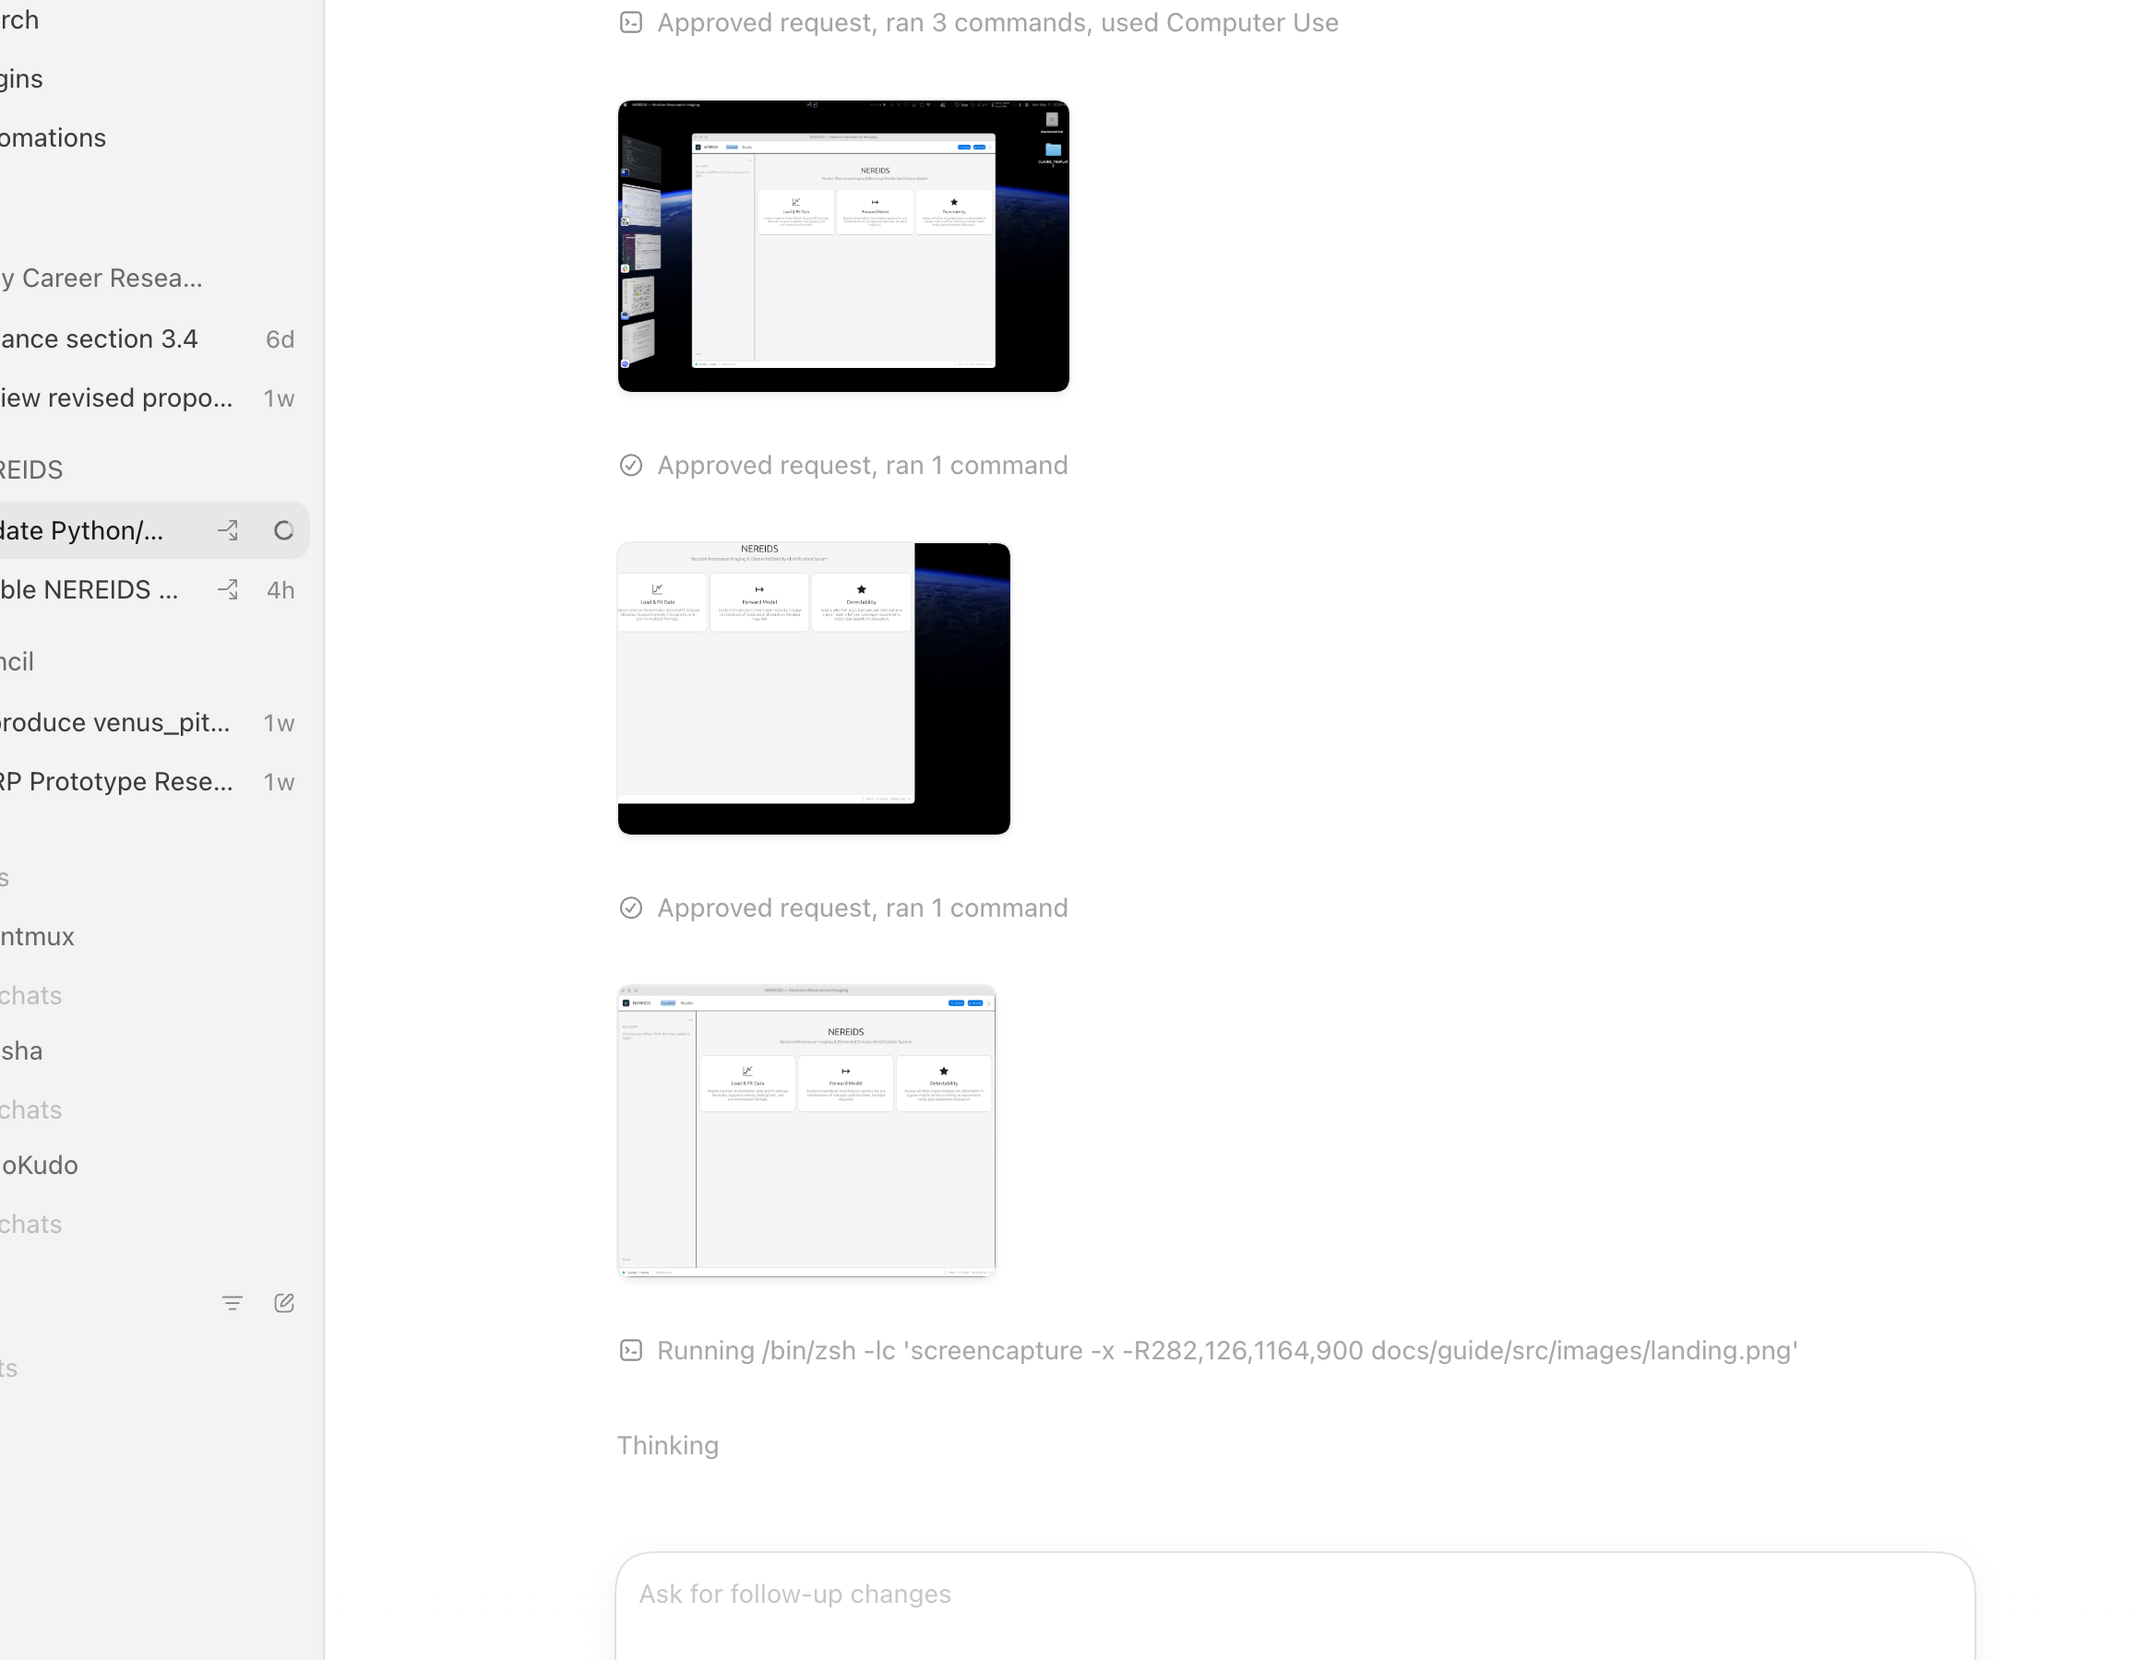
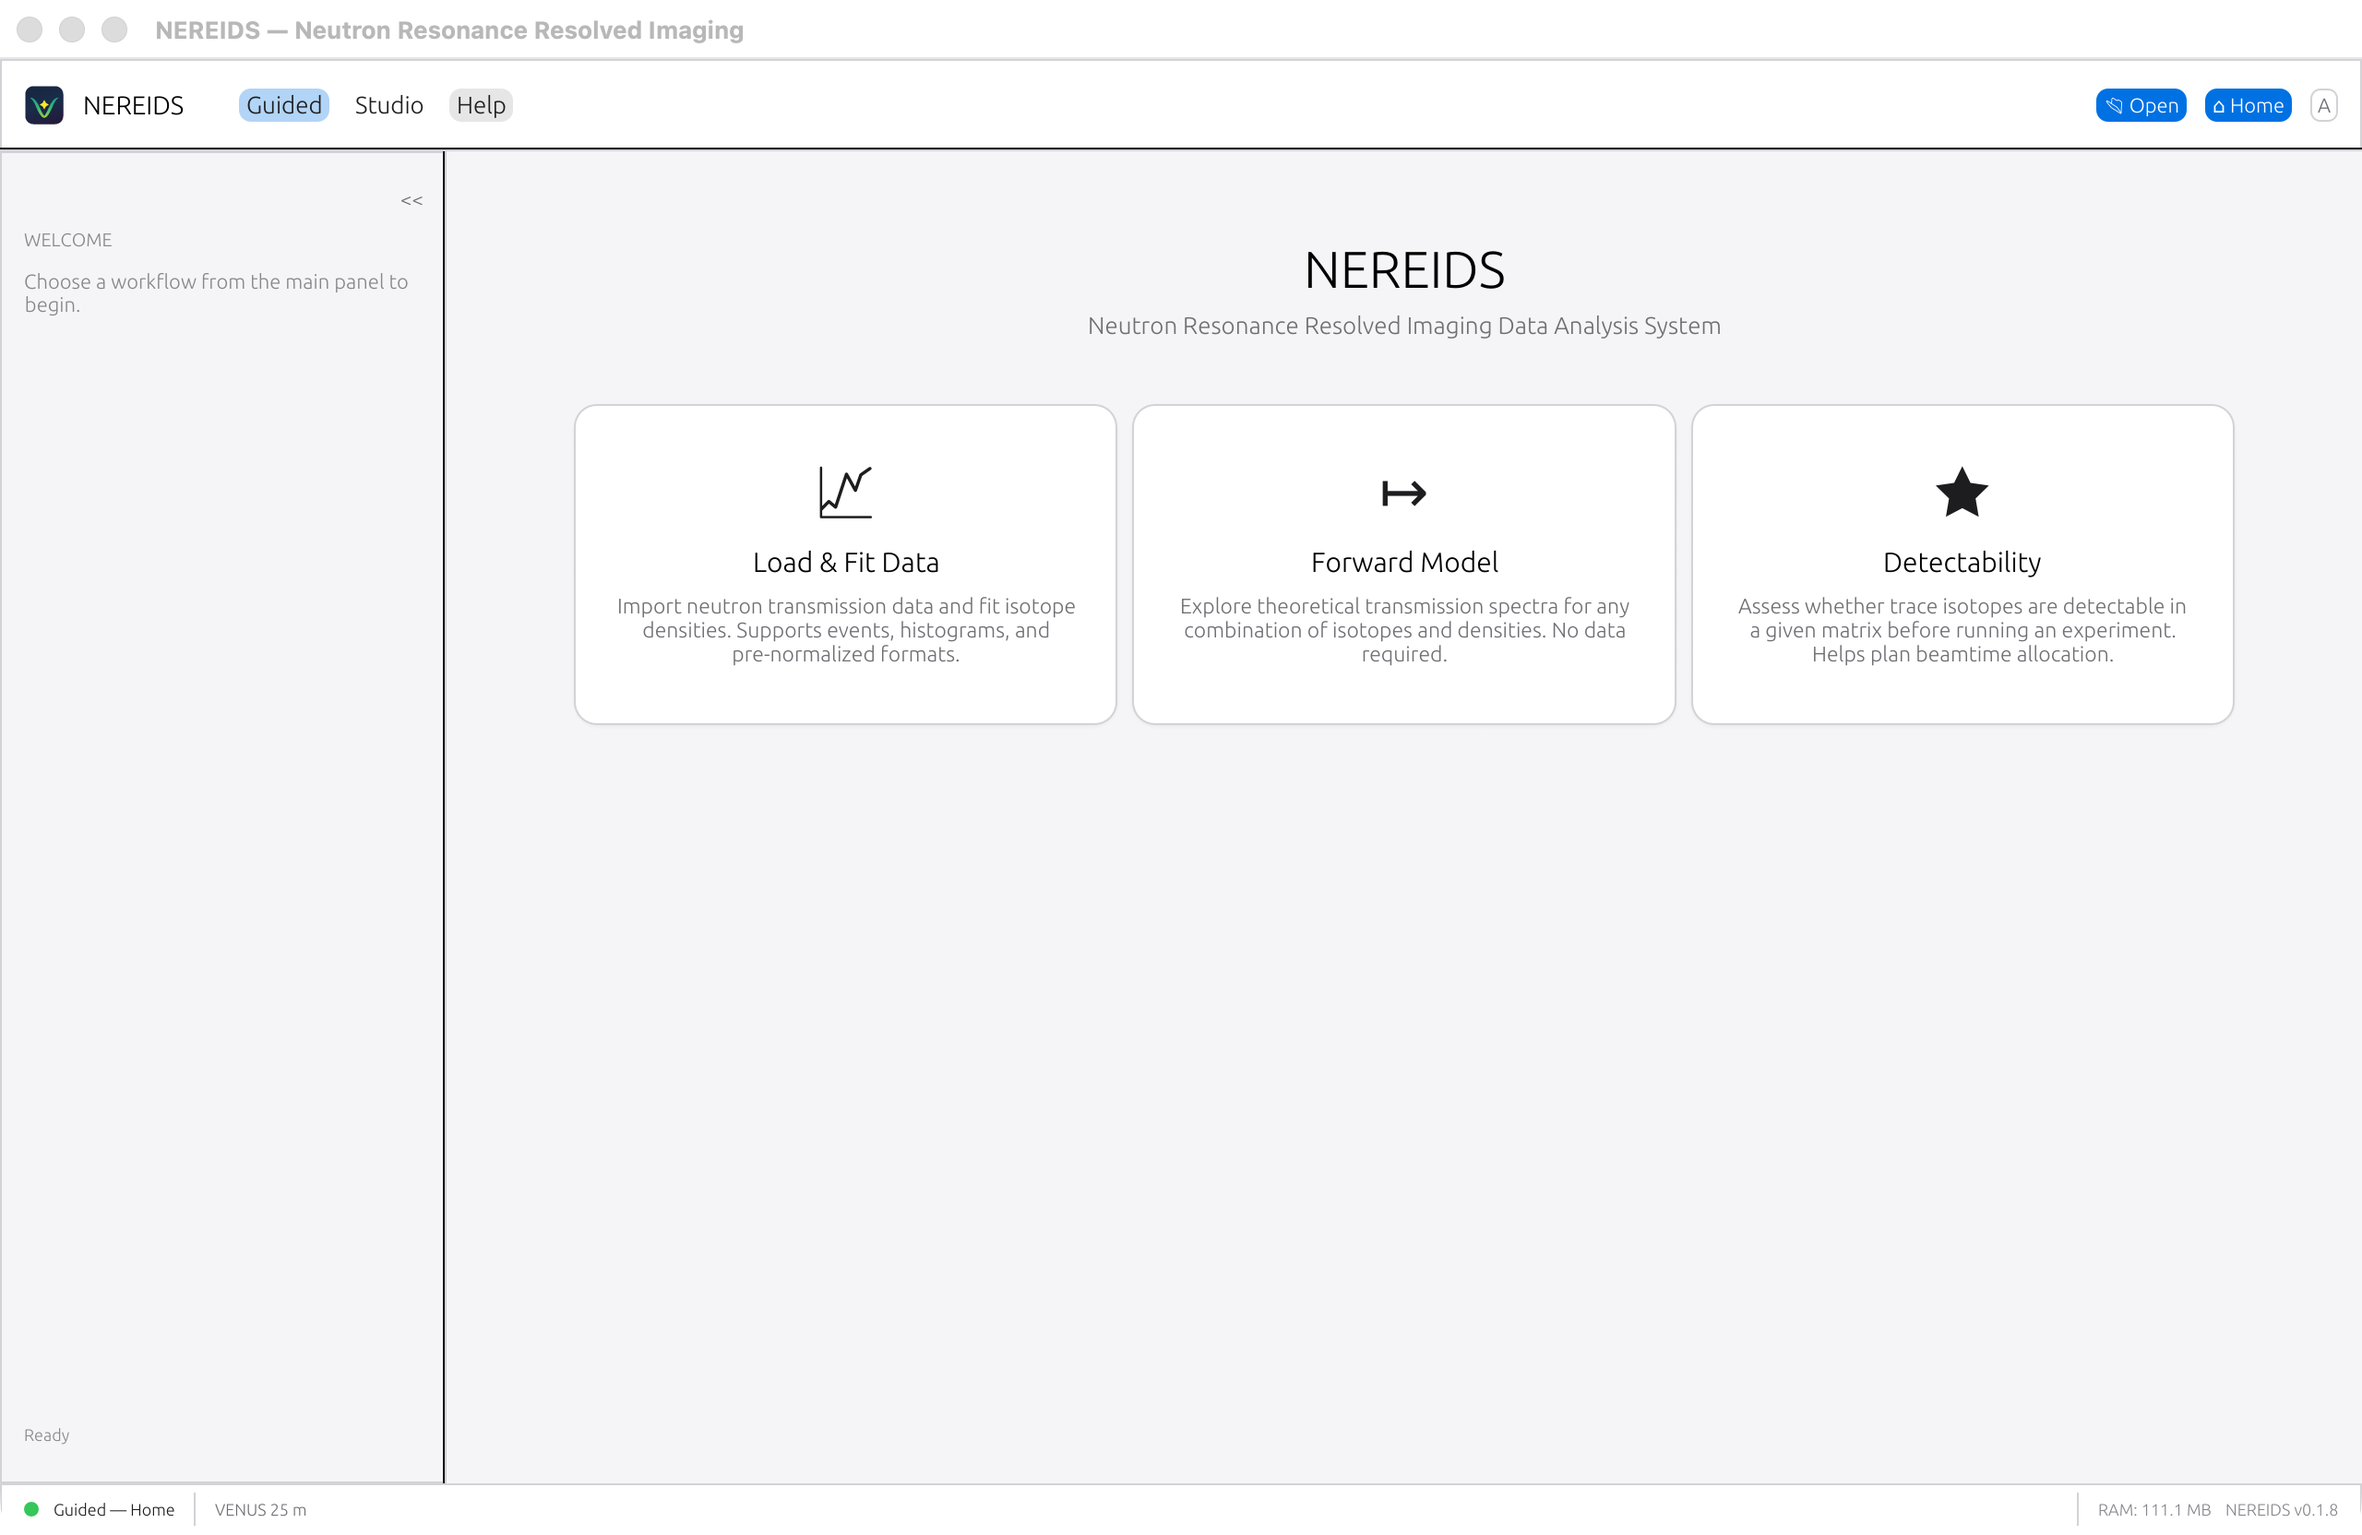
chore(license): MIT-only switch + citation/naming/metadata consistency (perfectionist pass PR-2) (#612)
* chore(license): switch the workspace from BSD-3-Clause to MIT

User decision for the pre-paper consolidation: one permissive license
everywhere. The root LICENSE becomes the standard MIT text (copyright
2025-2026, UT-Battelle, LLC / Oak Ridge National Laboratory — same
holder as before, year range extended). The workspace Cargo.toml
license field flips to MIT and endf-mat's MIT-OR-Apache-2.0 dual
license now inherits it instead, so every crate resolves to MIT
(verified via cargo metadata). Python wheel metadata (license +
classifier in both pyprojects), CITATION.cff, the README badge and
License section, and CONTRIBUTING's contributor-license statement all
follow. The GUI bundle copyright string gains the UT-Battelle, LLC
holder to match LICENSE.

Artifacts already published as 0.1.8 keep their BSD-3-Clause metadata;
MIT applies from the next published version (CHANGELOG notes this).

Assisted-With: Claude Fable 5 (1M context) <noreply@anthropic.com>

* docs(metadata): citation block, acronym casing, optimizer label, structure trees

- README BibTeX: key nereids2025 -> nereids2026, year 2026, and the four
  named CITATION.cff authors replace the team alias, so the README block
  and CITATION.cff agree.
- Acronym expansion harmonized to 'Neutron Resonance Resolved Imaging
  Data Analysis System' wherever a string purports to expand NEREIDS:
  README headline capitalizes Analysis, the nereids wheel description
[…]

diff --git a/apps/gui/src/main.rs b/apps/gui/src/main.rs
@@ -1,4 +1,4 @@
-//! NEREIDS — Neutron Resonance Imaging Data Analysis
+//! NEREIDS — Neutron Resonance Resolved Imaging Data Analysis
 //!
 //! Desktop GUI application for interactive neutron transmission analysis,
 //! isotope identification, and spatial composition mapping.
@@ -25,7 +25,7 @@ fn main() -> eframe::Result {
     let options = eframe::NativeOptions {
         viewport: egui::ViewportBuilder::default()
             .with_inner_size([1280.0, 800.0])
-            .with_title("NEREIDS — Neutron Resonance Imaging"),
+            .with_title("NEREIDS — Neutron Resonance Resolved Imaging"),
         ..Default::default()
     };
 

diff --git a/apps/gui/src/guided/landing.rs b/apps/gui/src/guided/landing.rs
@@ -17,7 +17,7 @@ pub fn landing_step(ui: &mut egui::Ui, state: &mut AppState) {
         ui.label(RichText::new("NEREIDS").size(28.0).strong());
         ui.add_space(4.0);
         ui.label(
-            RichText::new("Neutron Resonance Imaging & Elemental Density Identification System")
+            RichText::new("Neutron Resonance Resolved Imaging Data Analysis System")
                 .size(13.0)
                 .color(tc.fg2),
         );

diff --git a/README.md b/README.md
@@ -1,12 +1,12 @@
 # NEREIDS
 
-**N**eutron r**E**sonance **RE**solved **I**maging **D**ata analysis **S**ystem
+**N**eutron r**E**sonance **RE**solved **I**maging **D**ata Analysis **S**ystem
 
 [![DOI](https://zenodo.org/badge/DOI/10.5281/zenodo.18973054.svg)](https://doi.org/10.5281/zenodo.18973054)
 [![CI](https://github.com/ornlneutronimaging/NEREIDS/actions/workflows/ci.yml/badge.svg)](https://github.com/ornlneutronimaging/NEREIDS/actions/workflows/ci.yml)
 [![PyPI](https://img.shields.io/pypi/v/nereids)](https://pypi.org/project/nereids/)
 [![crates.io](https://img.shields.io/crates/v/nereids-core)](https://crates.io/crates/nereids-core)
-[![License](https://img.shields.io/badge/license-BSD--3--Clause-blue)](LICENSE)
+[![License](https://img.shields.io/badge/license-MIT-blue)](LICENSE)
 [![Docs](https://img.shields.io/badge/docs-guide-blue)](https://ornlneutronimaging.github.io/NEREIDS/)
 [![API](https://img.shields.io/badge/docs-rustdoc-orange)](https://ornlneutronimaging.github.io/NEREIDS/api/nereids_pipeline/)
 
@@ -200,6 +200,8 @@ notebooks covering foundations, building blocks, workflows, and applications.
 NEREIDS is organized as a Rust workspace with layered crates:
 
 ```
+endf-mat              ENDF MAT lookup tables (no deps of its own; used by core + endf)
+
 nereids-core          Shared types, physical constants, isotope registry
     |
 nereids-endf          ENDF file retrieval, parsing, resonance data
@@ -212,12 +214,13 @@ nereids-io            TIFF/NeXus I/O, TOF normalization, rebinning
     |
 nereids-pipeline      End-to-end orchestration, spatial mapping (rayon)
     |
-    +-- nereids-python    PyO3 Python bindings
-    +-- nereids-gui       egui desktop application
+    +-- nereids-python    PyO3 Python bindings (bindings/python)
+    +-- nereids-gui       egui desktop application (apps/gui)
 ```
 
 | Crate | Description |
 |-------|-------------|
+| `endf-mat` | ENDF MAT number lookup, element symbols, natural isotopic abundances |
 | `nereids-core` | Core types, physical constants, traits |
 | `nereids-endf` | ENDF file retrieval, caching, resonance parameter parsing |
 | `nereids-physics` | Cross-section calculation, broadening, transmission model |
@@ -268,10 +271,10 @@ the relevant log file when reporting bugs.
 If you use NEREIDS in your research, please cite:
 
 ```bibtex
-@software{nereids2025,
-  author    = {{ORNL Neutron Imaging Team}},
+@software{nereids2026,
+  author    = {Zhang, Chen and Bilheux, Jean-Christophe and Tang, Shiming and Bilheux, Hassina},
   title     = {{NEREIDS}: Neutron Resonance Resolved Imaging Data Analysis System},
-  year      = {2025},
+  year      = {2026},
   publisher = {Zenodo},
   doi       = {10.5281/zenodo.18973054},
   url       = {https://doi.org/10.5281/zenodo.18973054}
@@ -285,6 +288,6 @@ and the PR process.
 
 ## License
 
-BSD-3-Clause. See [LICENSE](LICENSE) for details.
+MIT. See [LICENSE](LICENSE) for details.
 
-Copyright (c) 2025, UT-Battelle, LLC, Oak Ridge National Laboratory.
+Copyright (c) 2025-2026, UT-Battelle, LLC (Oak Ridge National Laboratory).

diff --git a/CHANGELOG.md b/CHANGELOG.md
@@ -7,6 +7,27 @@ and this project adheres to [Semantic Versioning](https://semver.org/).
 
 ## [Unreleased]
 
+### Changed
+
+- License switched from BSD-3-Clause to MIT across the entire workspace —
+  the root `LICENSE` text, the workspace `Cargo.toml` license field inherited
+  by every crate, and `endf-mat`'s former `MIT OR Apache-2.0` dual license
+  (now also inherits the workspace MIT field). Python wheel metadata
+  (`pyproject.toml` license + classifier for both `nereids` and
+  `nereids-gui`), `CITATION.cff`, the README badge/License section, and the
+  CONTRIBUTING contributor-license statement all updated to match. Copyright
+  years are now 2025-2026, and the copyright holder reads
+  "UT-Battelle, LLC (Oak Ridge National Laboratory)" everywhere. Per the
+  repository's bump-at-release convention, in-tree metadata (manifests,
+  CITATION.cff) describes the current source tree — which is MIT — while
+  still carrying the last released version number until the next release
+  commit bumps it; the 0.1.8 artifacts already on crates.io, PyPI, and
+  Zenodo were published under BSD-3-Clause (endf-mat: MIT OR Apache-2.0)
+  and are unaffected. MIT applies to every version published from here on.
+  Each publishable crate directory (and `apps/gui` for the wheel) now
+  carries a copy of the LICENSE text, so published artifacts ship the MIT
+  permission notice they are licensed under.
+
 ### Changed (breaking — `nereids-io`)
 
 - `NexusMetadata.tof_edges_ns: Option<Vec<f64>>` has been renamed to

diff --git a/CONTRIBUTING.md b/CONTRIBUTING.md
@@ -101,13 +101,14 @@ cargo test --workspace --exclude nereids-python
 
 ```
 crates/
+  endf-mat/           ENDF MAT lookup tables (standalone)
   nereids-core/       Shared types, constants, isotope registry
   nereids-endf/       ENDF file retrieval and resonance parsing
   nereids-physics/    Cross-section calculation and broadening
-  nereids-fitting/    LM and Poisson optimizers
+  nereids-fitting/    LM and Poisson/KL optimizers
   nereids-io/         TIFF/NeXus I/O, normalization
   nereids-pipeline/   Spatial mapping orchestration
-  nereids-python/     PyO3 Python bindings (excluded from workspace clippy/test)
+bindings/python/      PyO3 Python bindings (excluded from workspace clippy/test)
 apps/gui/             egui desktop application
 examples/notebooks/   Jupyter tutorials (4 tiers)
 tests/                Integration tests and SAMMY validation data
@@ -116,4 +117,4 @@ tests/                Integration tests and SAMMY validation data
 ## License
 
 By contributing, you agree that your contributions will be licensed under the
-BSD-3-Clause license (see [LICENSE](LICENSE)).
+MIT license (see [LICENSE](LICENSE)).

diff --git a/docs/adr/0001-workspace-layout.md b/docs/adr/0001-workspace-layout.md
@@ -28,7 +28,7 @@ nereids-core       Core types, physical constants, error types, traits
 nereids-endf       ENDF file retrieval, caching, resonance parameter parsing
 nereids-physics    Cross-section (Reich-Moore), broadening, transmission model
 nereids-io         TIFF/NeXus data loading, VENUS normalization
-nereids-fitting    Optimization (LM least-squares, Poisson/BFGS)
+nereids-fitting    Optimization (LM least-squares, Poisson/KL)
 nereids-pipeline   End-to-end orchestration, spatial mapping, sparsity handling
 nereids-python     PyO3 thin wrapper (bindings/python)
 nereids-gui        egui desktop application (apps/gui)

diff --git a/docs/guide/src/introduction.md b/docs/guide/src/introduction.md
@@ -1,6 +1,6 @@
 # Introduction
 
-**NEREIDS** (**N**eutron r**E**sonance **RE**solved **I**maging **D**ata analysis
+**NEREIDS** (**N**eutron r**E**sonance **RE**solved **I**maging **D**ata Analysis
 **S**ystem) is a Rust-based library for neutron resonance imaging at the
 [VENUS beamline](https://neutrons.ornl.gov/venus), Spallation Neutron Source (SNS),
 Oak Ridge National Laboratory (ORNL).
